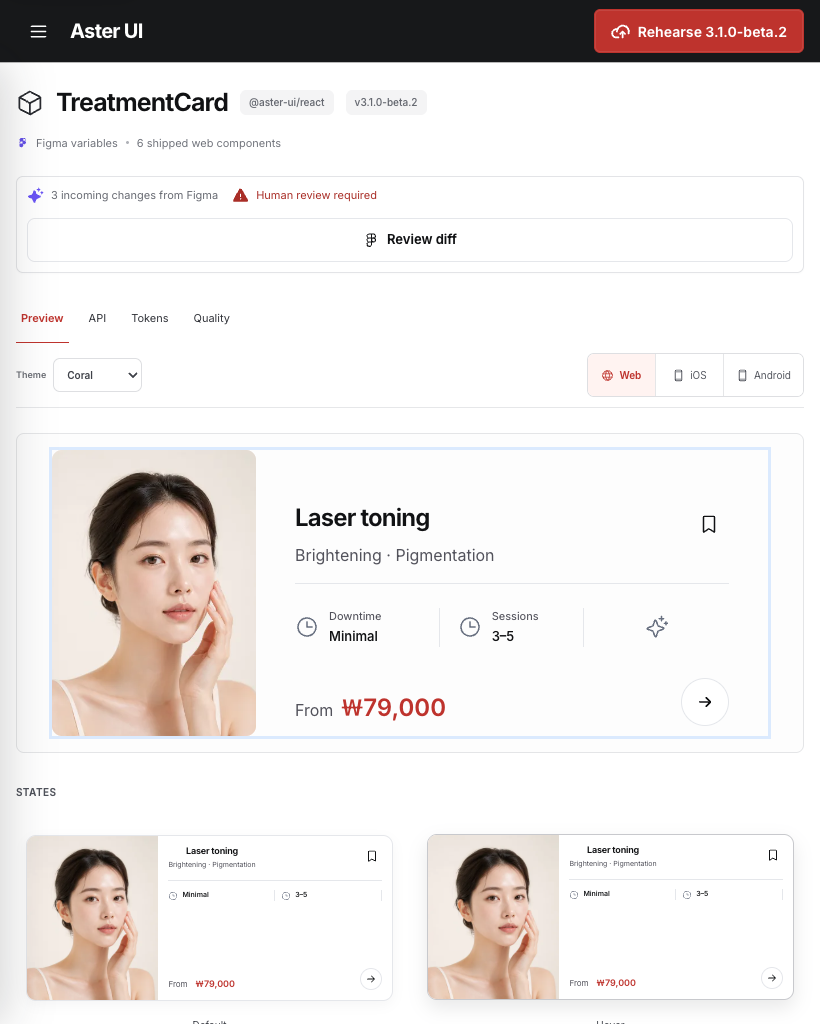
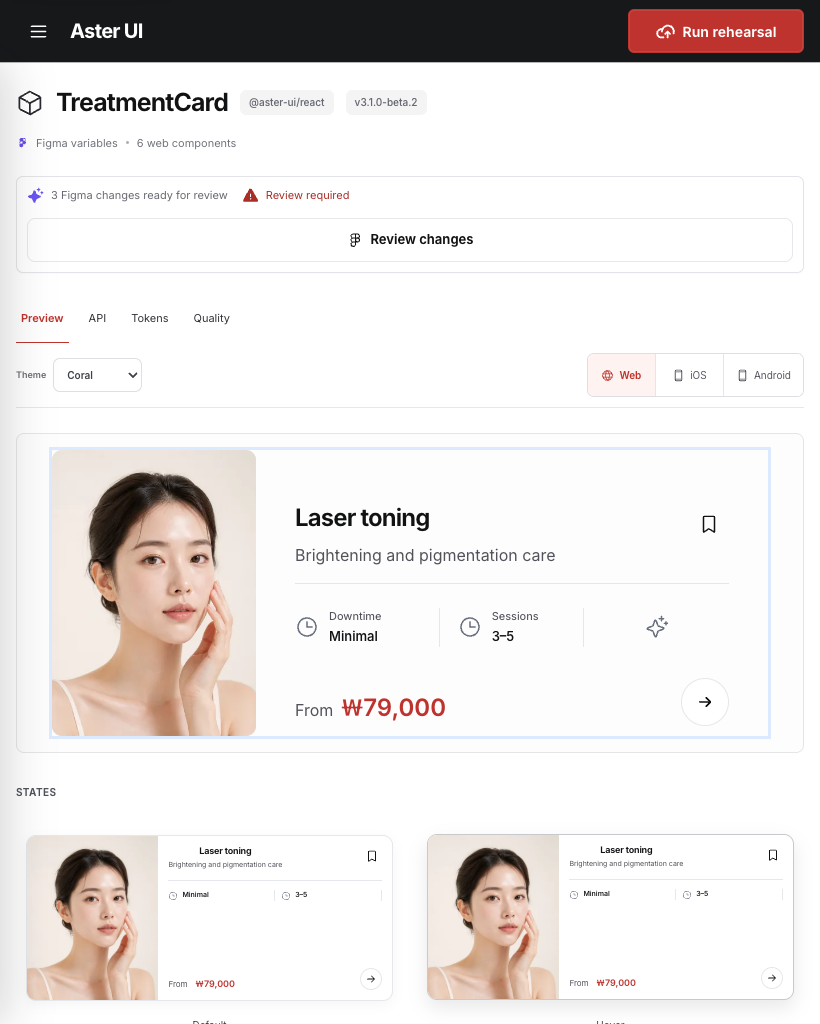
docs: record final copy review evidence

diff --git a/reports/verification.md b/reports/verification.md
@@ -1,56 +1,59 @@
-# Production Verification
+# 프로덕션 검증 보고서
 
-이 문서는 저장소의 provenance 결합 JSON 근거에서 자동 생성됩니다. 수치를 직접 편집하지 않으며 `pnpm verification:check`가 현재 소스, source 변경 commit, Studio 품질 근거와의 정합성을 검사합니다.
+이 문서는 출처 정보가 결합된 저장소의 JSON 근거에서 자동 생성됩니다. 수치를 직접 편집하지 않으며 `pnpm verification:check`가 현재 소스, 소스 변경 커밋, Studio 품질 근거가 서로 일치하는지 검사합니다.
 
-- 생성 기준: 2026. 09. 01. 18:57 KST
-- 소스 리비전: `workspace:7a04ebbce541f4497e01`
-- Git commit: `f78d600018215e7481983227c50a7fe86eb59f94`
+- 생성 기준: 2026. 09. 01. 20:00 KST
+- 소스 리비전: `workspace:389cbd9dadf9e5bd0553`
+- Git 커밋: `456bf0cb68577bf412a5d3d88c2b02e77fd99ddf`
 
 ## 판정
 
-로컬에서 재현 가능한 종료 매트릭스 기준으로 열린 P0, P1, P2는 0건입니다. 이 판정은 아래 자동 근거와 사람 검토 경계가 모두 유효할 때만 생성됩니다. 공개 GitHub 실행, 실제 Figma 계정, npm registry, Kubernetes cluster처럼 자격 증명이나 외부 환경이 필요한 결과는 별도 경계로 남깁니다.
+로컬에서 재현할 수 있는 완료 기준으로 남아 있는 P0, P1, P2는 0건입니다.
+
+이 판정은 아래 자동 근거와 사람 검토 경계가 모두 유효할 때만 생성됩니다.
+공개 GitHub 실행, 실제 Figma 계정, npm 레지스트리, Kubernetes 클러스터처럼 인증 정보나 외부 환경이 필요한 결과는 별도 범위로 남깁니다.
 
 ## 자동화 근거
 
-| Gate | Result |
+| 검증 항목 | 결과 |
 | --- | --- |
-| Workspace unit and interaction suites | 6 package suites passed |
-| Consumer contract tests | Clinic과 backoffice 렌더링 및 WCAG-tagged axe 검사 passed |
-| Sites worker | 4 runtime route cases passed |
-| API compatibility | 6 components, 38 props, 0 breaking changes |
-| Adoption | 13/13 eligible components across 3 consumers, 0 deprecated usages |
-| Figma review fixture | 3 aliases resolved, human review required, source mutation disabled |
-| AI proposal and approval E2E | 6 proposal checks, 7 fail-closed boundaries, provider timeout and output limits, source mutation disabled |
-| Browser visual and accessibility | 7 scenarios, 6 snapshots, 4 axe checks |
-| Production dependency audit | 0 known vulnerabilities |
-| Evidence provenance | revision, run ID, Git commit, artifact digest verified |
+| 워크스페이스 단위 및 상호작용 테스트 | 패키지 검증 스위트 6개 통과 |
+| 소비 앱 계약 테스트 | 클리닉과 백오피스 렌더링 및 WCAG 태그 기반 axe 검사 통과 |
+| Sites 워커 | 런타임 경로 사례 4개 통과 |
+| API 호환성 | 컴포넌트 6개와 prop 38개 검사, 하위 호환성이 깨지는 변경 0건 |
+| 도입률 | 소비 앱 3개에서 대상 컴포넌트 13/13개 사용, 지원 중단 예정 API 사용 0건 |
+| Figma 검토 테스트 픽스처 | 별칭 3개 해석, 사람 검토 필수, 소스 변경 비활성화 |
+| AI 제안 및 승인 E2E | 제안 검사 6개, 실패 우선 경계 7개, 제공자 제한 시간과 출력 상한 적용, 소스 변경 비활성화 |
+| 브라우저 시각 및 접근성 | 시나리오 7개, 기준 이미지 6개, axe 검사 4회 통과 |
+| 프로덕션 의존성 감사 | 알려진 취약점 0건 |
+| 검증 근거 출처 | 리비전, 실행 ID, Git 커밋, 산출물 해시 확인 |
 
-## Coverage
+## 테스트 커버리지
 
-| Scope | Statements | Branches | Functions | Lines |
+| 범위 | 구문 | 분기 | 함수 | 줄 |
 | --- | ---: | ---: | ---: | ---: |
-| Clinic consumer | 100% | 100% | 100% | 100% |
-| Backoffice consumer | 100% | 100% | 100% | 100% |
-| Tokens | 100% | 100% | 100% | 100% |
-| Figma bridge | 96.77% | 96.93% | 100% | 97.64% |
-| React | 93.24% | 82.45% | 95% | 98.36% |
-| Studio | 92.44% | 88.4% | 91.66% | 95.5% |
+| 클리닉 소비 앱 | 100% | 100% | 100% | 100% |
+| 백오피스 소비 앱 | 100% | 100% | 100% | 100% |
+| 토큰 | 100% | 100% | 100% | 100% |
+| Figma 브리지 | 96.77% | 96.93% | 100% | 97.64% |
+| React 패키지 | 94.04% | 87.06% | 96.29% | 98.59% |
+| Studio | 92.48% | 88.46% | 91.72% | 95.53% |
 
 ## 성능 예산
 
-| Asset | Actual | Budget |
+| 자산 | 실제 크기 | 예산 |
 | --- | ---: | ---: |
-| JavaScript gzip | 92,408 B | 190,000 B |
+| JavaScript gzip | 92,329 B | 190,000 B |
 | CSS gzip | 10,359 B | 35,000 B |
-| Largest responsive image | 33,812 B | 60,000 B |
-| Self-hosted font | 48,256 B | 120,000 B |
+| 가장 큰 반응형 이미지 | 33,812 B | 60,000 B |
+| 프로젝트에 포함된 글꼴 | 48,256 B | 120,000 B |
 
 ## 검증 범위와 한계
 
-- 실제 Chrome에서 1440px Coral과 Ocean, Figma 검토 및 릴리스 리허설, 1280px, 확대 상당 viewport, 모바일, forced-colors를 검사합니다.
-- 각 브라우저 시나리오는 page error, console error, HTTP 4xx와 5xx, WCAG 태그가 있는 axe violation을 실패 처리합니다.
-- Figma REST와 Claude Code 경로는 실행 가능하지만, 라이브 호출은 각 서비스의 권한과 로그인이 필요합니다. CI는 비식별 fixture를 같은 계약으로 재생합니다.
+- 실제 Chrome에서 1440px Coral과 Ocean, Figma 검토 및 릴리스 리허설, 1280px, 확대에 해당하는 뷰포트, 모바일, 강제 색상 모드를 검사합니다.
+- 각 브라우저 시나리오에서 페이지 오류, 콘솔 오류, HTTP 4xx 및 5xx 응답, WCAG 태그가 있는 axe 위반이 발생하면 실패 처리합니다.
+- Figma REST와 Claude Code 경로는 실행할 수 있지만 라이브 호출에는 각 서비스의 권한과 로그인이 필요합니다. CI는 비식별 테스트 픽스처를 같은 계약으로 재생합니다.
 - Swift와 Compose는 공유 토큰 산출물입니다. 네이티브 컴포넌트 구현이나 실제 앱 배포를 주장하지 않습니다.
-- VoiceOver와 NVDA 수동 검증, npm 배포, cluster smoke test는 자동 근거에 포함하지 않습니다.
+- VoiceOver와 NVDA 수동 검증, npm 배포, 클러스터 스모크 테스트는 자동 근거에 포함하지 않습니다.
 
-final result: passed
+최종 결과: 통과

diff --git a/audits/2026-09-01-copy-review/audit.md b/audits/2026-09-01-copy-review/audit.md
@@ -1,0 +1,58 @@
+# 화면 및 문서 문구 검토 보고서
+
+- 검토일: 2026-09-01
+- 범위: Studio 데스크톱, Figma 변경 검토, 릴리스 리허설, 모바일 Studio, 소비 앱 예시, 저장소 내부 문서
+- 목표: 사용 맥락에 맞는 자연스러운 문장, 언어 일관성, 정확한 실행 범위, 명확한 동작 이름 확보
+
+## 검토 결과
+
+화면과 문서에서 발견한 어색한 혼용 표현과 내부 구현 용어를 모두 수정했습니다. 개발자용 Studio는 영어, 한국어 소비 앱 예시는 한국어로 통일했습니다. 코드 식별자와 표준 이름은 그대로 유지했습니다.
+
+## 화면 검토 순서
+
+1. Studio 기본 화면
+   - 변경 전: [`01-studio-before.png`](./01-studio-before.png)
+   - 변경 후: [`05-studio-after.png`](./05-studio-after.png)
+   - `Patterns`, `Rehearse`, `Review diff`, `fixture`처럼 맥락이 모호하거나 내부 구현에 가까운 표현을 `Quality`, `Run rehearsal`, `Review changes`, `test data`로 바꿨습니다.
+   - 화면 언어와 접근성 이름을 영어로 통일하고 TreatmentCard의 영어 로케일 문구를 적용했습니다.
+
+2. Figma 변경 검토
+   - 변경 전: [`02-review-drawer-before.png`](./02-review-drawer-before.png)
+   - 변경 후: [`06-review-drawer-after.png`](./06-review-drawer-after.png)
+   - 제목, 검증 상태, 영향을 받는 산출물 문장을 자연스럽게 정리했습니다.
+   - 플랫폼 목록은 영어 접속 규칙에 따라 `Web, iOS, and Android`로 표시합니다.
+
+3. 릴리스 리허설
+   - 변경 전: [`03-release-dialog-before.png`](./03-release-dialog-before.png)
+   - 변경 후: [`07-release-dialog-after.png`](./07-release-dialog-after.png)
+   - 실제 배포로 오해할 수 있는 표현을 제거하고 로컬 기록만 저장한다는 범위를 명시했습니다.
+   - 검토 전 상태에서도 자연스럽도록 안내 문장을 보완하고, 주 동작을 `Start rehearsal`로 명확히 구분했습니다.
+
+4. 모바일 Studio
+   - 변경 전: [`04-mobile-before.png`](./04-mobile-before.png)
+   - 변경 후: [`08-mobile-after.png`](./08-mobile-after.png)
+   - 좁은 화면에서도 주요 상태와 동작 문구가 잘리지 않고 읽히는지 확인했습니다.
+   - 상단의 `Run rehearsal`, 변경 검토 상태, `Review changes` 순서가 유지됩니다.
+
+## 문서 검토
+
+- README, 케이스 스터디, 아키텍처, 접근성, Figma, AI, 릴리스, 디자인 QA, 이전 감사 보고서의 혼용 표현을 다듬었습니다.
+- `receipt`, `fixture`, `gate`, `source mutation` 같은 일반 설명 속 구현 용어를 승인 기록, 테스트 픽스처, 검증 항목, 소스 변경처럼 자연스러운 한국어로 바꿨습니다.
+- 자동 생성 문서는 레지스트리와 생성 스크립트를 수정한 뒤 다시 만들었습니다.
+- 이후 회귀를 막기 위해 [`docs/content-style.md`](../../docs/content-style.md)에 언어와 용어 기준을 추가했습니다.
+
+## 잘 유지된 점
+
+- 기존 디자인 시안의 레이아웃, 색상, 컴포넌트 계층을 바꾸지 않고 문구만 개선했습니다.
+- 실제 실행 범위를 과장하지 않고 로컬 검증, CI 검증, 외부 배포 경계를 구분했습니다.
+- 버튼은 동사와 목적어, 상태는 짧고 구체적인 문장으로 통일했습니다.
+
+## 접근성 확인 범위
+
+- 현재 실행에서는 DOM 접근성 이름과 초점 가능한 주요 동작을 화면별로 확인했습니다.
+- 단위 테스트와 실제 Chrome axe, 키보드 탐색, 시각 회귀는 저장소의 자동 검증 단계에서 다시 실행합니다.
+- VoiceOver와 NVDA의 실제 발화는 이번 로컬 자동 검토 범위에 포함하지 않았습니다.
+
+## 판정
+
+현재 검토 범위에서 추가로 남아 있는 P0, P1, P2 문구 문제는 없습니다.
